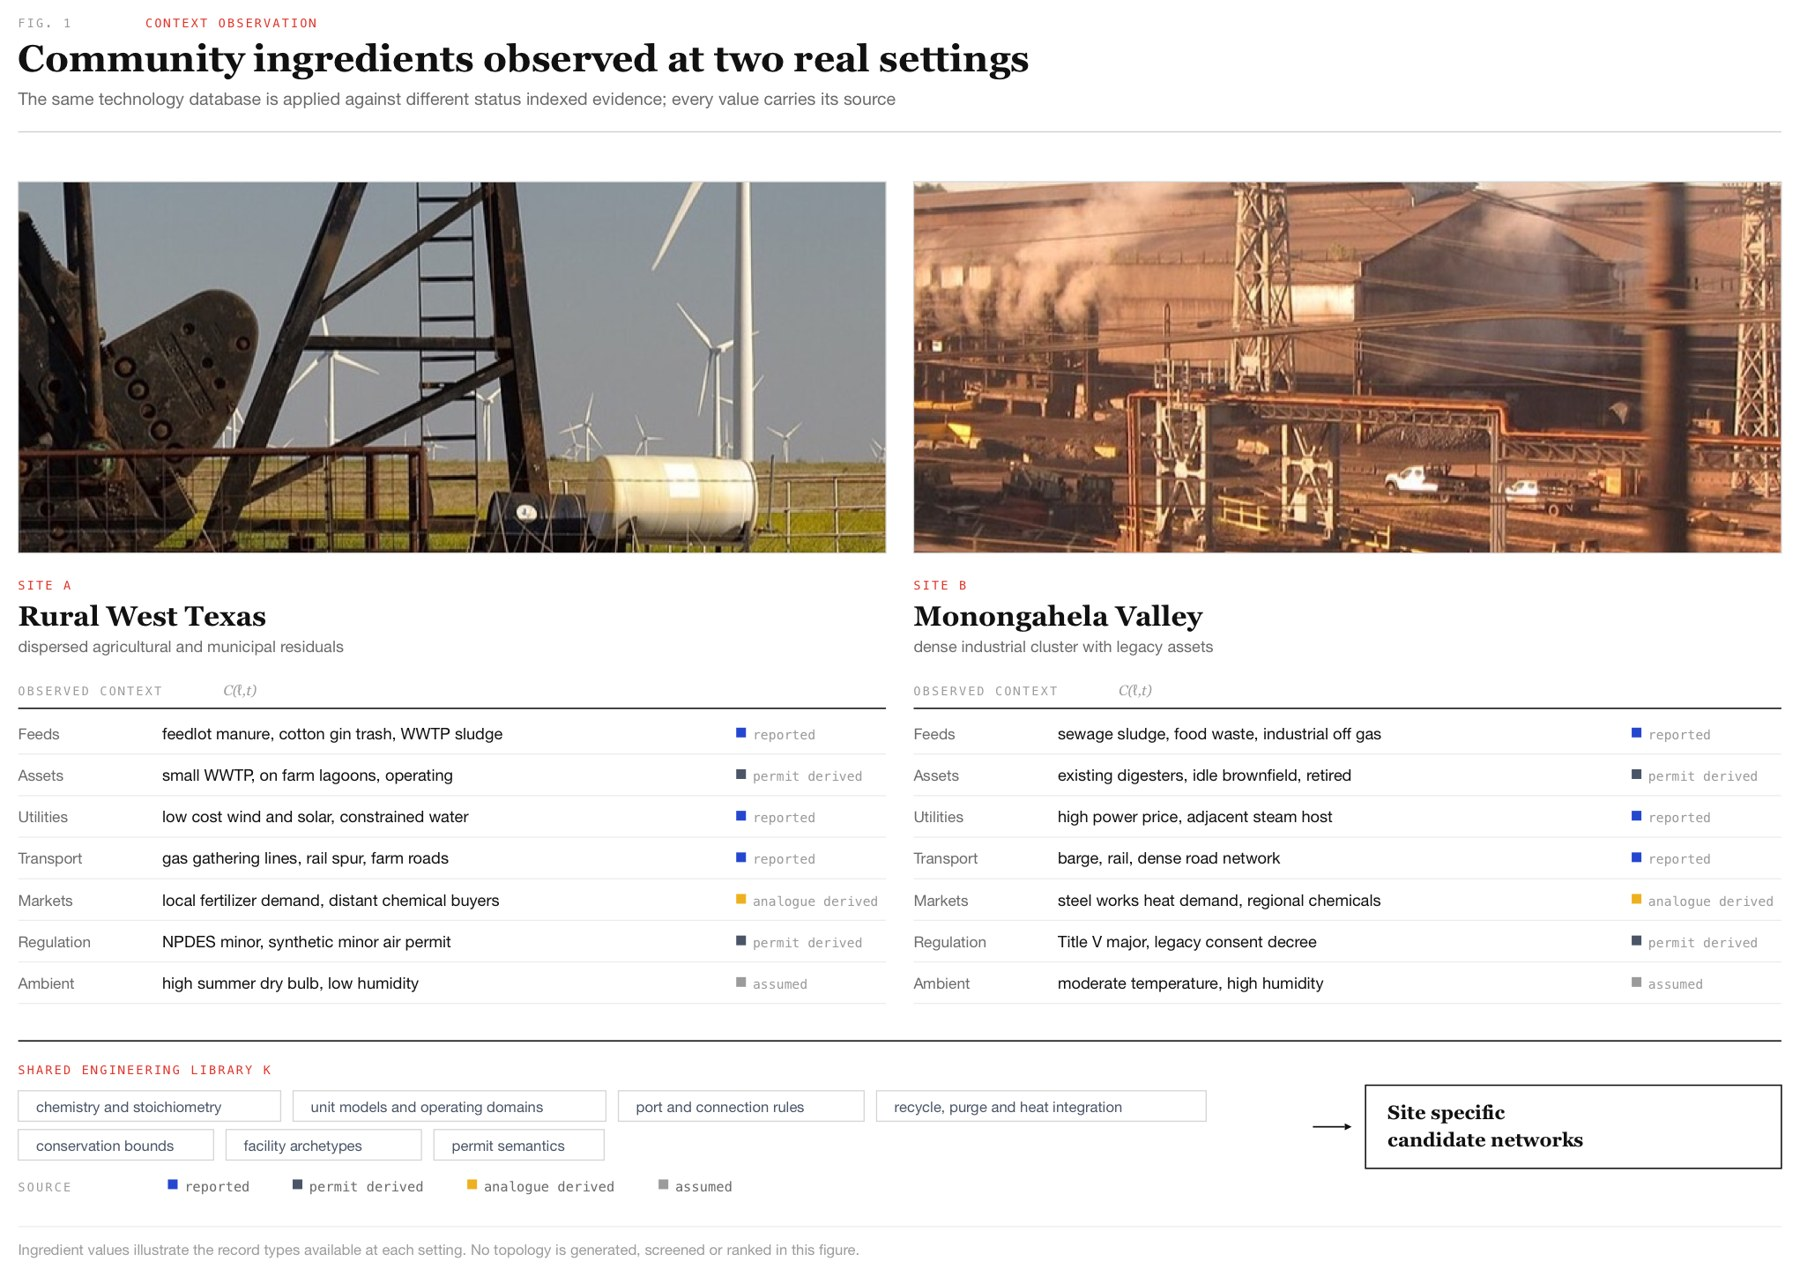
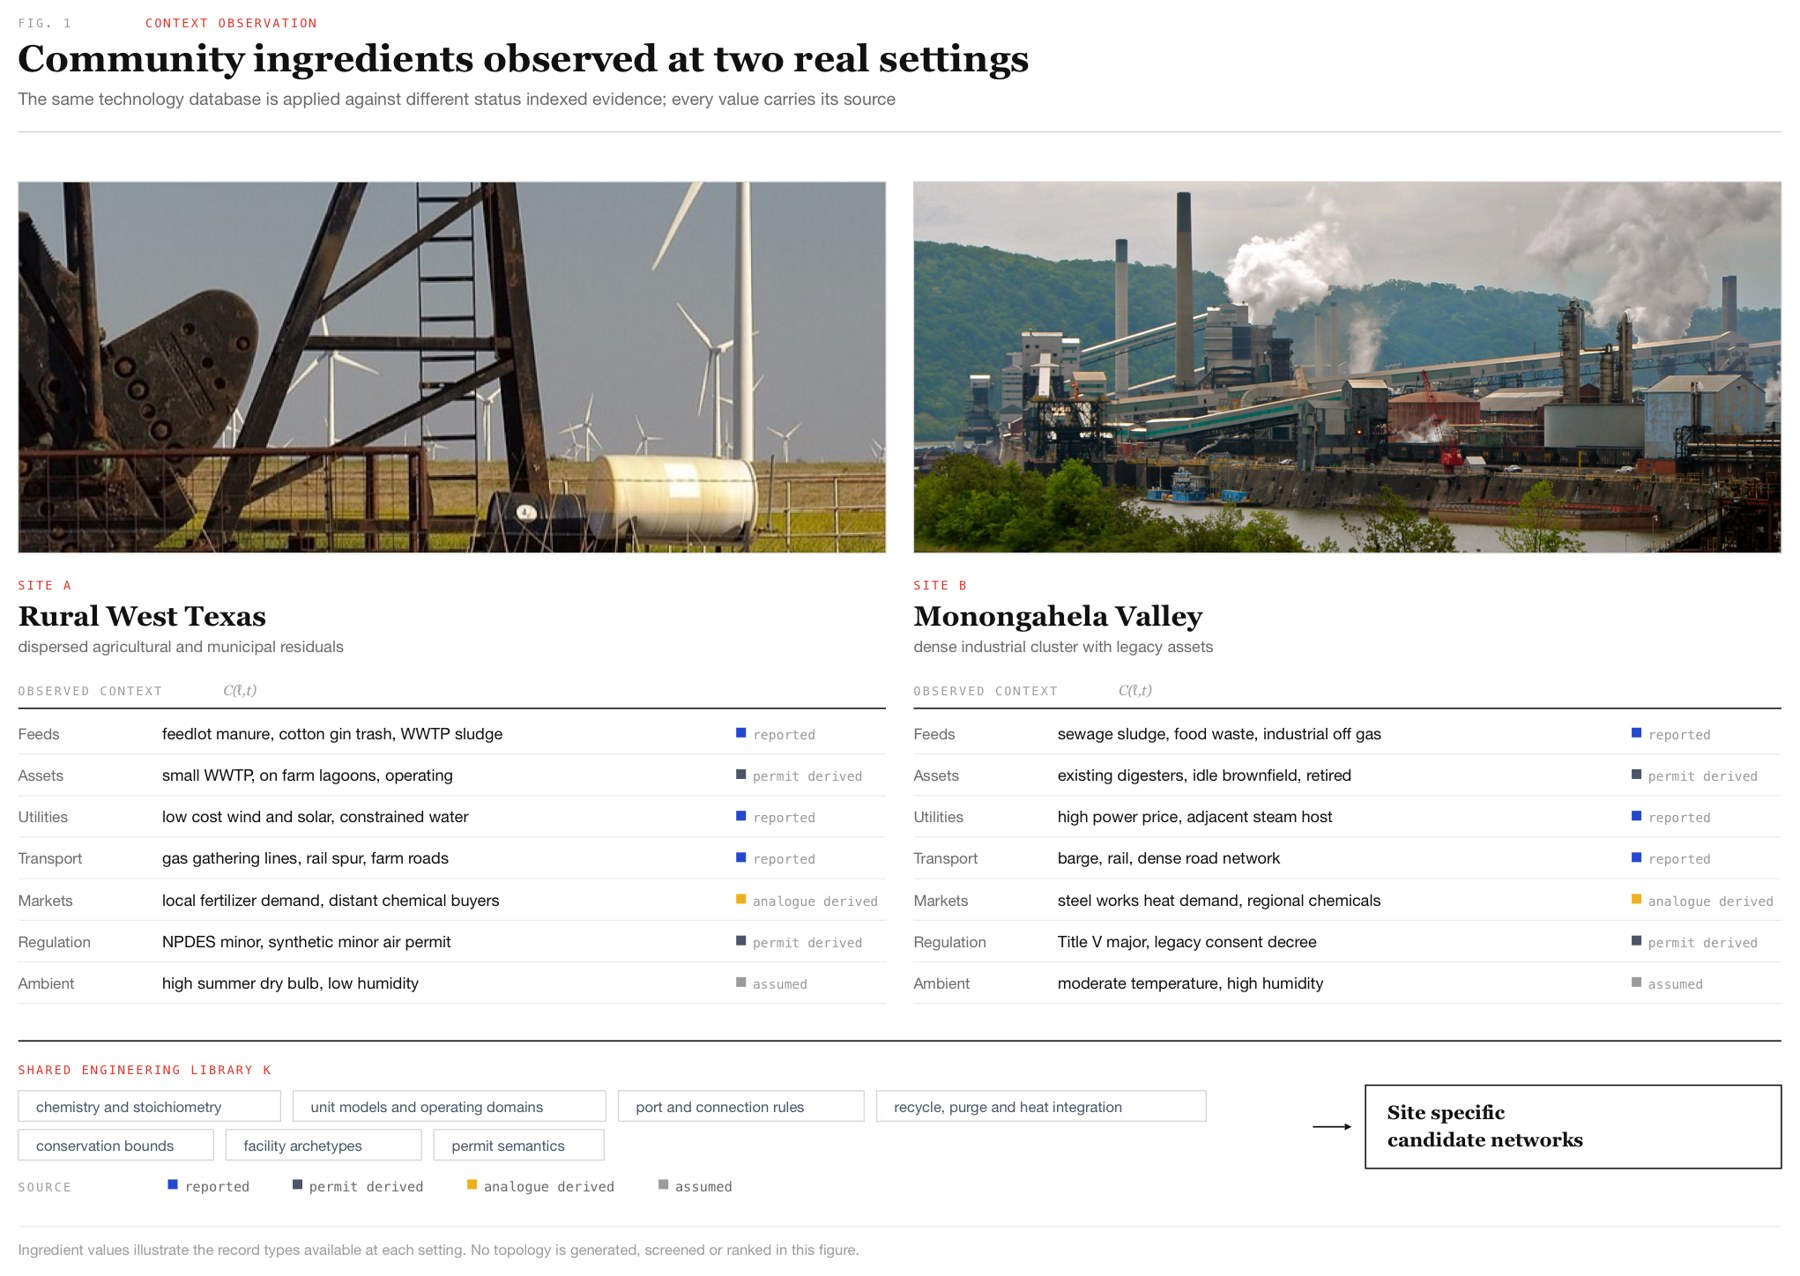
Use the Clairton Works photo in the community ingredients figure
Photo: Roy Luck, CC BY 2.0, via Wikimedia Commons.

Changed region(s): [[0.4978, 0.1223, 0.9956, 0.4585]]

diff --git a/index.html b/index.html
@@ -46,7 +46,7 @@ World Bank. <a href="https://documents.worldbank.org/en/publication/documents-re
 <p>Most of what we use comes through a global supply chain. Raw materials are extracted in a few places, processed in large centralized plants and shipped everywhere else, and the waste ends up back in local communities. Process optimization has mostly been aimed at making that system more profitable for the companies that run it. I want to point the same tools at a different objective: lowering costs for the people who live somewhere, using public resources that are already there, like sewage and trash. My research asks where a local supply chain built on those resources can compete with the global one, and where it can't.</p>
 <ul>
 <li><p><b>Decision support for turning local waste into energy and products</b> (Carnegie Mellon University, 2025 to present). A tool that screens which local pathways for turning waste into fuels, fertilizers and energy make sense for a region. A geospatial pipeline turns public facility, wastewater, emissions and permitting records into a network of real candidate sites, and process models with optimization weigh each pathway on cost, emissions, policy constraints and local jobs. Allegheny County is the first case study.
-<figure style="max-width:720px"><img src="images/community_ingredients_two_settings.jpg" alt="Figure comparing the observed community ingredients in rural West Texas and the Monongahela Valley"><figcaption><b>Two settings, one engineering library.</b> The same engineering library applied to rural West Texas and the Monongahela Valley sees different feeds, assets, utilities, transport, markets and regulation, and every value carries its source. From my perspective paper (in preparation). Photographs: USDA NRCS Texas and David Wilson, <a href="https://creativecommons.org/licenses/by/2.0/">CC BY 2.0</a>, via Wikimedia Commons.</figcaption></figure>
+<figure style="max-width:720px"><img src="images/community_ingredients_two_settings.jpg?v=2" alt="Figure comparing the observed community ingredients in rural West Texas and the Monongahela Valley"><figcaption><b>Two settings, one engineering library.</b> The same engineering library applied to rural West Texas and the Monongahela Valley sees different feeds, assets, utilities, transport, markets and regulation, and every value carries its source. From my perspective paper (in preparation). Photographs: USDA NRCS Texas and Roy Luck, <a href="https://creativecommons.org/licenses/by/2.0/">CC BY 2.0</a>, via Wikimedia Commons.</figcaption></figure>
 
 <figure style="max-width:560px"><img src="images/pittsburgh_network_build.gif" alt="Animation of 463 facilities around Pittsburgh grouping into 71 local hubs connected by 190 road routes"><figcaption><b>From sites to a network.</b> 463 active waste, wastewater and industrial sites around Pittsburgh are grouped into 71 local hubs, each under 8 km across, and linked to neighboring hubs along 190 routes on the real state road network, with natural gas pipelines in the background. A network like this is what the tool searches for candidate pathways. Built from EPA, PA DEP, HIFLD and PennDOT records.</figcaption></figure>
 
